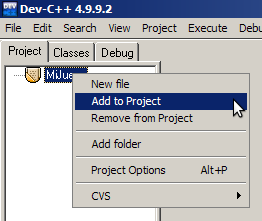
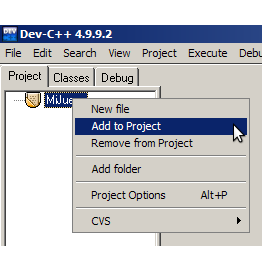
Retocamos las imágenes del tutorial de Instalación en Dev-C++

diff --git a/docs/Instalacion.rst b/docs/Instalacion.rst
@@ -22,22 +22,26 @@ siguiente:
 - Creas un nuevo proyecto en Dev-C++, del tipo "Windows Application",
   y le pones un nombre como por ejemplo "MiJuego":
 
-  .. image:: _static/devcpp1.png
+  .. image:: _static/devcpp1.png        
+     :align: center
 
 - DevC++ te pedirá guardar el proyecto (un fichero ``.dev``) en un
   directorio. Crea un directorio especial para el proyecto (supongamos
   "MiJuego" también).
 
 - Ahora aparecerá un fichero ``main.cpp`` en la pantalla principal de
-  edición con código C++ escrito. Cierra la ventana (observa que el
-  fichero no está guardado, porque tiene un asterisco en el nombre):
+  edición con código C++ escrito. Este fichero lo genera Dev-C++ y es
+  estándar. Debes cerrar la ventana (observa que el fichero no está
+  guardado, porque tiene un asterisco entre corchetes antes del nombre):
 
    .. image:: _static/devcpp2.png
+     :align: center
 
 - DevC++ preguntará si quieres guardar los cambios a ``main.cpp``. Dí
   que no:
 
    .. image:: _static/devcpp3.png
+     :align: center
 
   El proyecto quedará vacío.
 
@@ -49,6 +53,7 @@ siguiente:
   seleccionando "Añadir al proyecto":
 
   .. image:: _static/devcpp4.png
+     :align: center
 
 - Haz el programa principal (la función ``main``) en un fichero aparte
   (por ejemplo: ``mijuego.cpp``), y lo añades también al proyecto
